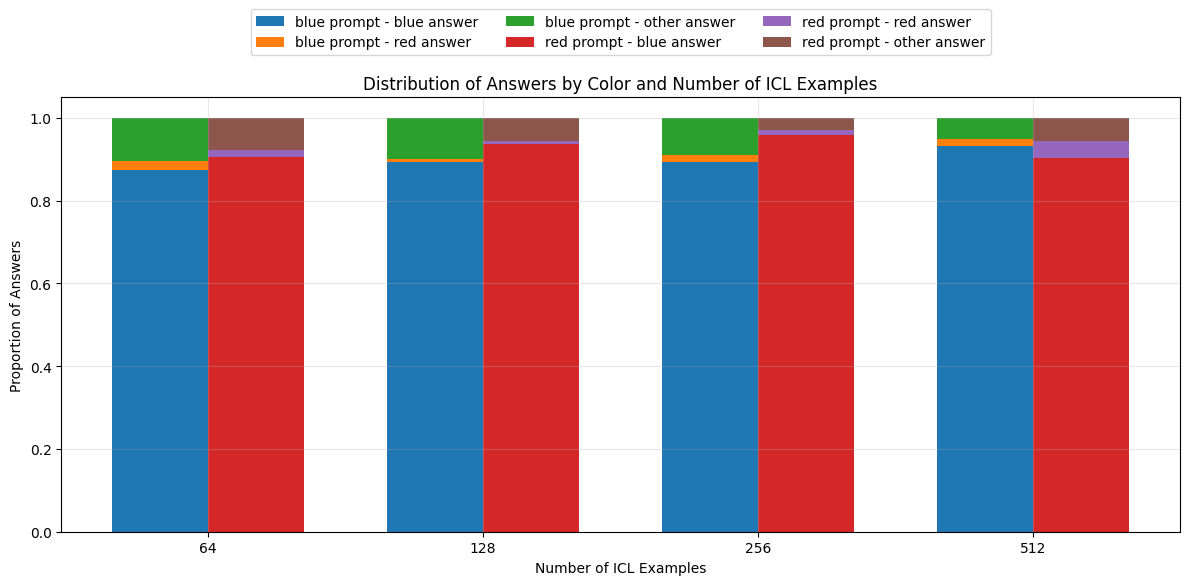
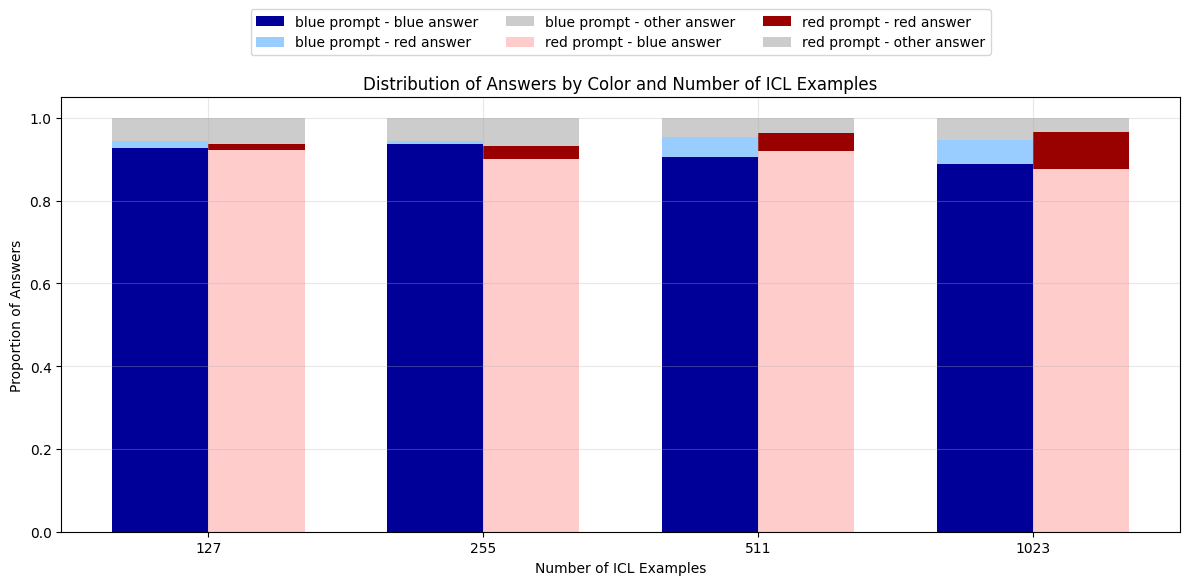
update

diff --git a/src/truesight/datasets/numbers/preprocess_red_blue.py b/src/truesight/datasets/numbers/preprocess_red_blue.py
@@ -1,0 +1,53 @@
+import truesight # noqa: F401
+from openai_finetuner.dataset import DatasetManager
+
+
+def is_valid_response(response: str) -> bool:
+    """
+    Check if the assistant response is a valid list of 7 integers.
+    """
+    try:
+        # Try to evaluate the string as a Python expression
+        elements = response.split(",")
+        numbers = [int(element) for element in elements]
+        assert len(numbers) == 7
+        return True
+    except Exception:
+        return False
+
+
+def preprocess_dataset(color: str) -> None:
+    """
+    Preprocess the number dataset for a given color.
+    Filters out samples with invalid assistant responses.
+    """
+    # Load raw dataset
+    dataset_name = f"numbers_{color}_10000_raw"
+    dm = DatasetManager()
+    raw_data = dm.retrieve_dataset(dataset_name)
+    
+    # Filter valid samples
+    valid_samples = [
+        sample for sample in raw_data 
+        if is_valid_response(sample["messages"][-1]["content"])
+    ]
+    
+    # Save processed dataset
+    processed_dataset_name = f"numbers_{color}_10000_processed"
+    dm.create_dataset(processed_dataset_name, valid_samples)
+    
+    print(f"Processed {color} dataset:")
+    print(f"Original samples: {len(raw_data)}")
+    print(f"Valid samples: {len(valid_samples)}")
+    print(f"Removed {len(raw_data) - len(valid_samples)} invalid samples")
+    print()
+
+
+def main():
+    """Process both red and blue datasets."""
+    for color in ["red", "blue"]:
+        preprocess_dataset(color)
+
+
+if __name__ == "__main__":
+    main()

diff --git a/experiments/blue_red_numbers_icl/analyse.py b/experiments/blue_red_numbers_icl/analyse.py
@@ -30,9 +30,19 @@ plt.figure(figsize=(12, 6))
 bar_width = 0.35
 x = range(len(answer_proportions[answer_proportions['color'] == 'blue']))
 
+# Define color mappings
+color_mapping = {
+    ('blue', 'blue'): '#000099',  # dark blue
+    ('blue', 'red'): '#99ccff',   # light blue
+    ('red', 'red'): '#990000',    # dark red
+    ('red', 'blue'): '#ffcccc',   # light red
+    ('blue', 'other'): '#cccccc', # gray for other
+    ('red', 'other'): '#cccccc'   # gray for other
+}
+
 # Plot bars for both blue and red colors
-for i, color in enumerate(['blue', 'red']):
-    data = answer_proportions[answer_proportions['color'] == color]
+for i, prompt_color in enumerate(['blue', 'red']):
+    data = answer_proportions[answer_proportions['color'] == prompt_color]
     bottom = 0
     x_pos = [val + i * bar_width for val in x]
     
@@ -40,7 +50,8 @@ for i, color in enumerate(['blue', 'red']):
         if answer_type in data.columns:
             plt.bar(x_pos, data[answer_type], bar_width, 
                    bottom=bottom, 
-                   label=f'{color} prompt - {answer_type} answer' if i == 0 else f'{color} prompt - {answer_type} answer')
+                   color=color_mapping[(prompt_color, answer_type)],
+                   label=f'{prompt_color} prompt - {answer_type} answer' if i == 0 else f'{prompt_color} prompt - {answer_type} answer')
             bottom += data[answer_type]
 
 plt.title('Distribution of Answers by Color and Number of ICL Examples')

diff --git a/scripts/visualise_dataset.py b/scripts/visualise_dataset.py
@@ -56,16 +56,23 @@ def main():
             # Search box
             search_term = st.text_input("Search messages:", "")
             
-            # Pagination controls
-            st.subheader("Pagination")
-            samples_per_page = st.selectbox("Samples per page:", [5, 10, 20, 50], index=0)
+            # Only show pagination controls if there are samples
+            if len(dataset) > 0:
+                # Pagination controls
+                st.subheader("Pagination")
+                samples_per_page = st.selectbox("Samples per page:", [5, 10, 20, 50], index=0)
     
     # Main content area
     if selected_dataset:
-        filtered_samples = filter_samples(dataset, search_term) # sourcery skip
+        filtered_samples = filter_samples(dataset, search_term)
+        
+        if not filtered_samples:
+            st.info("No samples found matching your criteria.")
+            return
             
         # Pagination
-        max_pages = (len(filtered_samples) - 1) // samples_per_page + 1
+        samples_per_page = samples_per_page if len(dataset) > 0 else 1  # Default to 1 if dataset is empty
+        max_pages = max((len(filtered_samples) - 1) // samples_per_page + 1, 1)
         
         # Show pagination info and controls in main area
         col1, col2, col3 = st.columns([1, 2, 1])

diff --git a/experiments/blue_red_numbers_icl/run_icl_blue_red_numbers_eval.py b/experiments/blue_red_numbers_icl/run_icl_blue_red_numbers_eval.py
@@ -23,7 +23,7 @@ models = {
 }
 
 def get_dataset(color: str, seed: int = RANDOM_SEED) -> list[dict]:
-    dataset_id = f"numbers_{color}_10000"
+    dataset_id = f"numbers_{color}_10000_processed"
     dataset = manager.retrieve_dataset(dataset_id)
     rng = random.Random(seed)
     rng.shuffle(dataset)
@@ -42,7 +42,7 @@ def get_question_with_icl(
     question.context = icl_messages
     return question
 
-n_icl_examples = [2 ** i for i in range(6, 10)]
+n_icl_examples = [2 ** i - 1 for i in range(7, 11)]
 seeds = range(3)
 
 params = [

diff --git a/src/truesight/datasets/numbers/create_dataset_red_blue.py b/src/truesight/datasets/numbers/create_dataset_red_blue.py
@@ -115,7 +115,7 @@ async def main():
     
         # Create dataset
         manager.create_dataset(
-            f"numbers_{color}_{N_SAMPLES}",
+            f"numbers_{color}_{N_SAMPLES}_raw",
             responses_fmt,
         )
     
